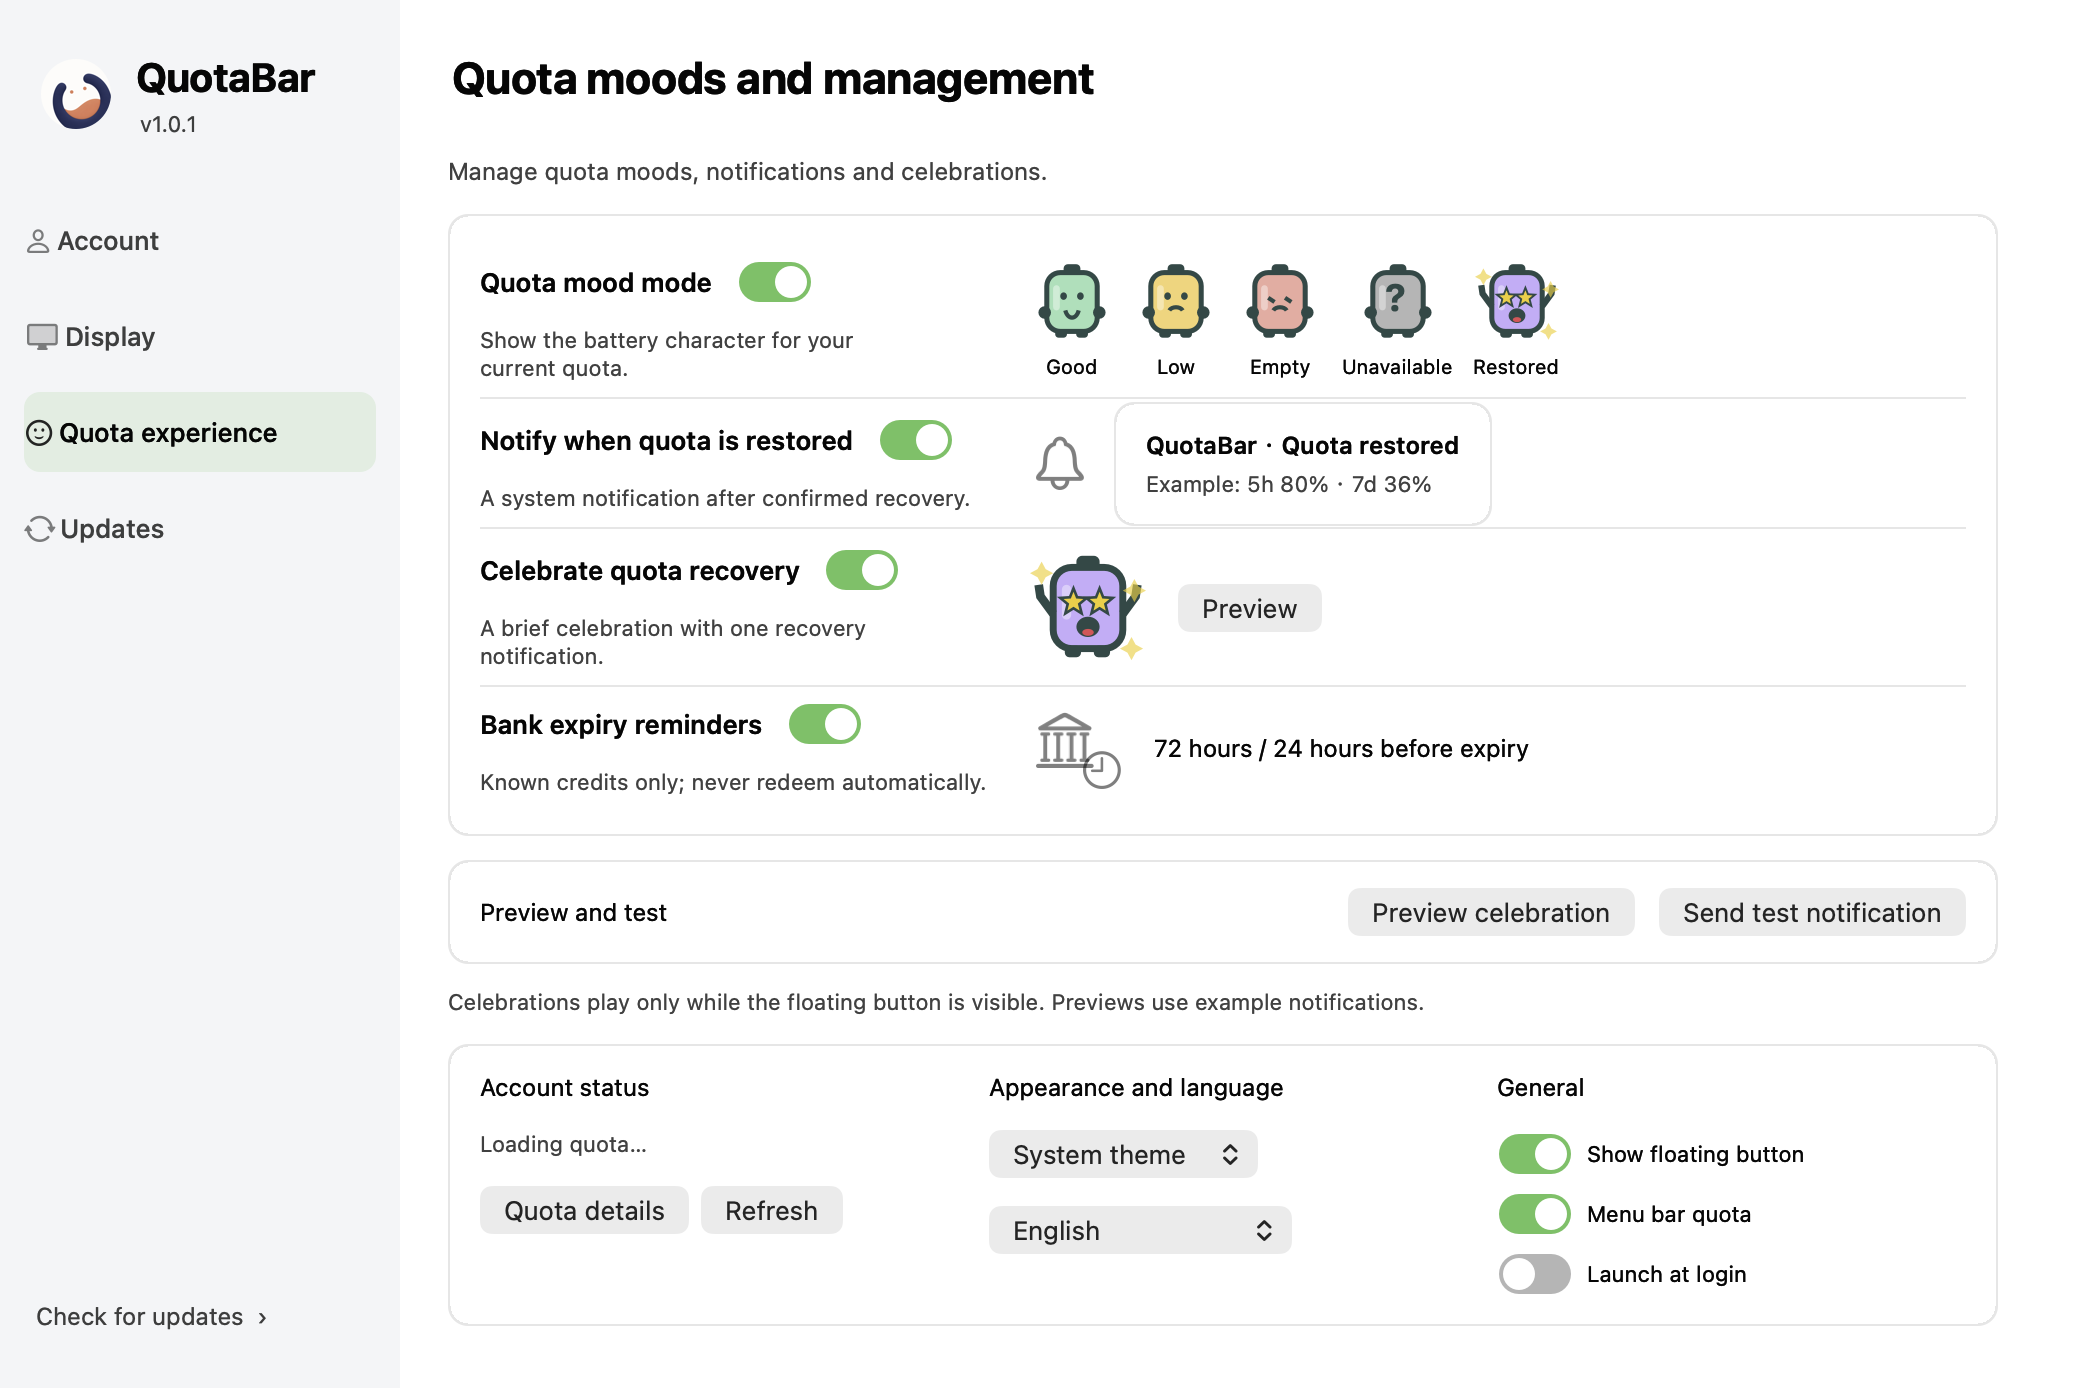
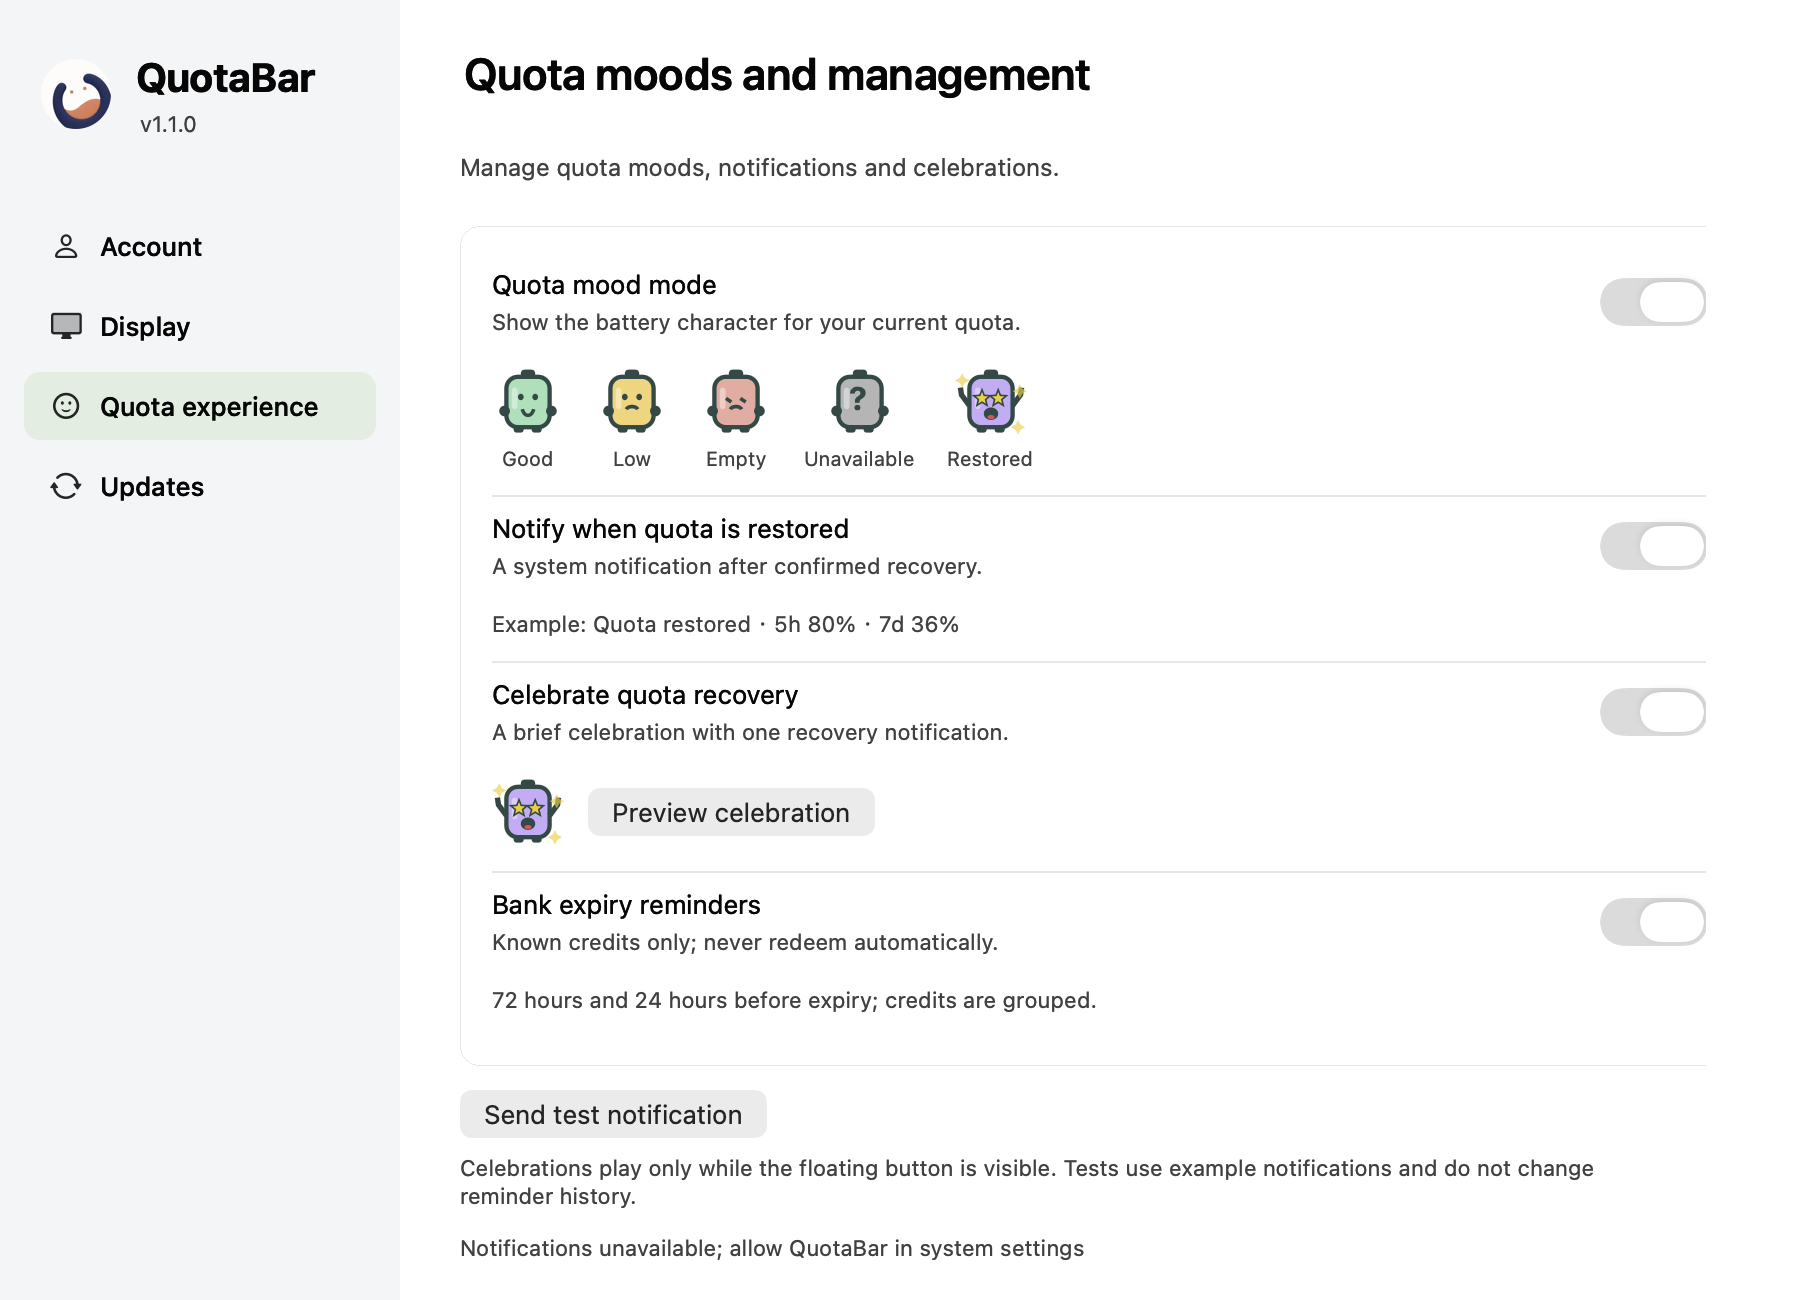
docs: record verified cross-platform v1.2.0 release (#50)

diff --git a/README.md b/README.md
@@ -10,7 +10,7 @@ An independent quota app for macOS and Windows: glance at the menu bar, tray or 
 
 **English** · [简体中文](README.zh-CN.md)
 
-[Download v1.1.0](https://github.com/JaceHwang/QuotaBar/releases/tag/v1.1.0) · [Installation](#installation) · [Documentation](docs/README.md)
+[Download v1.2.0](https://github.com/JaceHwang/QuotaBar/releases/tag/v1.2.0) · [Installation](#installation) · [Documentation](docs/README.md)
 
 </div>
 
@@ -18,7 +18,7 @@ An independent quota app for macOS and Windows: glance at the menu bar, tray or 
 
 QuotaBar bundles the official Codex 0.144.1 runtime and reads quota through an isolated account. Sign in once through the official browser flow; it keeps working when Codex desktop is closed. No separate CLI installation or old plugin is required.
 
-Floating, menu bar, detail and update screenshots below were captured on macOS v1.0.1 in English. The new sidebar settings image is a native rendering with example data from the tested development candidate. No image contains account credentials; these are macOS views, not Windows screenshots.
+Floating, menu bar, detail and update screenshots below were captured on macOS v1.0.1 in English. The sidebar settings image is a native rendering of the validated layout with example data from a pre-release test host; its displayed fixture version is not the current release version. No image contains account credentials; these are macOS views, not Windows screenshots.
 
 ### Quota, always within reach
 
@@ -54,16 +54,16 @@ Check for updates from the menu or settings, view release notes, postpone a remi
 
 <img src="docs/images/macos-updates-en.png" alt="Actual macOS update settings showing version 1.0.1 and update-check options" width="510" />
 
-The settings refinement in development uses grouped rows, trailing switches, state-aware account actions and a single celebration preview. Runtime reload lives under Troubleshooting. Public v1.1.0 packages retain their released interface.
+Settings now uses grouped rows, trailing native switches, state-aware account actions and a single celebration preview. Runtime reload lives under Troubleshooting. Language changes update status messages, and accessibility toggles save preferences.
 
 ## Installation
 
-Both platforms share **v1.1.0**. Download the package and checksum/supporting files from the [latest release](https://github.com/JaceHwang/QuotaBar/releases/latest), and verify the checksum before installing.
+Both platforms share **v1.2.0**. Download the package and checksum/supporting files from the [latest release](https://github.com/JaceHwang/QuotaBar/releases/latest), and verify the checksum before installing.
 
 | Platform | Download | Support and signing |
 | --- | --- | --- |
-| macOS Apple Silicon | [DMG](https://github.com/JaceHwang/QuotaBar/releases/download/v1.1.0/codex-quota-v1.1.0-macos-arm64.dmg) | macOS 14+ declared; device-tested on macOS 27.0. Locally signed, **not Developer ID notarized**. |
-| Windows x64 | [Installer ZIP](https://github.com/JaceHwang/QuotaBar/releases/download/v1.1.0/QuotaBar-1.1.0-windows-x64.zip) | Windows 11 x64. **Unsigned** package. |
+| macOS Apple Silicon | [DMG](https://github.com/JaceHwang/QuotaBar/releases/download/v1.2.0/codex-quota-v1.2.0-macos-arm64.dmg) | macOS 14+ declared; device-tested on macOS 27.0. Locally signed, **not Developer ID notarized**. |
+| Windows x64 | [Installer ZIP](https://github.com/JaceHwang/QuotaBar/releases/download/v1.2.0/QuotaBar-1.2.0-windows-x64.zip) | Windows 11 x64. **Unsigned** package. |
 
 ### macOS
 

diff --git a/docs/releases/settings-ui-v1.2.0.md b/docs/releases/settings-ui-v1.2.0.md
@@ -1,0 +1,26 @@
+# QuotaBar v1.2.0：设置与悬浮显示优化
+
+状态：2026-10-22双平台正式发布，公开下载和更新清单核验通过。[发布页](https://github.com/JaceHwang/QuotaBar/releases/tag/v1.2.0)。用户明确授权推送、合并和发布，并反馈实机测试通过。
+
+## 更新内容
+
+- 四个设置页统一分组、右侧原生开关、圆角按钮和间距，保持B方向侧栏与电池角色。
+- 账户操作按登录状态显示，运行时重载放入故障排查；显示页拆分外观与常驻行为。
+- 表情页移除重复设置与预览入口，更新页强化版本、进度和操作层次。
+- 修复悬浮额度重置时间末位数字被裁切、Windows辅助技术切换后偏好未保存，以及切换语言后状态提示未更新。
+- 保留独立账户、已保存偏好及提醒检测去重规则；四功能默认开启，既有关闭选择不变。Bank只读，无新增服务或API调用。
+
+macOS Apple Silicon与Windows x64继续内嵌官方Codex0.144.1。macOS本地签名、未Developer ID公证，Windows未签名。
+
+## 验证与发布证据
+
+- 功能PR [#46](https://github.com/JaceHwang/QuotaBar/pull/46)与安装指南PR [#48](https://github.com/JaceHwang/QuotaBar/pull/48)已合并；准确功能提交38ce4ec和指南168da51各8项原生CI/治理检查成功。
+- Release Please重新生成版本PR [#49](https://github.com/JaceHwang/QuotaBar/pull/49)，准确head87d01d9的[原生CI39751460486](https://github.com/JaceHwang/QuotaBar/actions/runs/39751460486)与[治理39751460343](https://github.com/JaceHwang/QuotaBar/actions/runs/39751460343)全部成功。旧PR47的GitHub自动合并标题超过72字符导致治理失败，已关闭并保留记录；没有绕过门禁或人工修改版本。
+- 准确tag：`v1.2.0` → `eae7c1cc69dbeaa37aee9e447059be56d639a1c3`；共享version.txt和manifest为1.2.0，由[Release Please39752079744](https://github.com/JaceHwang/QuotaBar/actions/runs/39752079744)生成。
+- [macOS发布39752176428](https://github.com/JaceHwang/QuotaBar/actions/runs/39752176428)与[Windows发布39752647890](https://github.com/JaceHwang/QuotaBar/actions/runs/39752647890)成功，10项资产全部公开，两端availability均available。
+- 公开DMG重新下载后通过SHA256、严格签名、版本、准确tag源码快照、内嵌运行时，以及隐藏构建目录后的隔离账户真实启动退出。Windows公开ZIP通过完整文件、PE x64、来源、摘要及原生CI启动退出/安装升级回退卸载证明核验；本Mac主机没有执行Windows程序。
+- [Pages39753040666](https://github.com/JaceHwang/QuotaBar/actions/runs/39753040666)成功；[公网更新清单](https://jacehwang.github.io/QuotaBar/updates.json)GET确认两端1.2.0、准确发布链接及非空摘要/更新说明。全部10文件大小和SHA256与GitHub资产元数据一致，v1.1.0全部资产ID/大小/摘要保持不变。
+- 复核命令：`python3 scripts/verify-macos-standalone-release.py v1.2.0 <assets>`、`python3 scripts/verify-windows-standalone-release.py v1.2.0 <assets>`，均在准确tag HEAD成功。日志与公开文件保存在本机`.dist/release-download/v1.2.0`及临时发布验证日志中，不提交安装包或私人账户数据。
+
+
+用户实机通过反馈单独记录；没有逐项提供的DPI、多屏、最低系统、读屏器和长期运行矩阵不视作全部通过。公开包在隔离目录验证，不改变用户本机账户或已安装候选。

diff --git a/docs/GOVERNANCE.md b/docs/GOVERNANCE.md
@@ -15,4 +15,4 @@ python3 scripts/verify-macos-standalone-release.py vX.Y.Z .dist/release/macos-ar
 
 The verifier checks the QuotaBar bundle, icon metadata, strict signatures, runtime/application hashes, version and tagged source snapshot. Upload all five assets without replacement, publish, then download and verify the public assets again from the same tag. Installers and guides must match their release. Do not commit build caches or installer binaries to source Git.
 
-Historical release tags/assets remain immutable. Update current docs and release catalog after publication, while preserving historical facts. Local tests, CI, device acceptance and release verification are separate states. Windows standalone is under development with candidate packaging and an added Windows CI job; native execution/device acceptance and a public Windows release remain pending. Developer ID notarization remains pending for macOS.
+Historical release tags/assets remain immutable. Update current docs and release catalog after publication, while preserving historical facts. Local tests, CI, device acceptance and release verification are separate states. Windows publication must be built and installation-tested on native Windows CI; record device acceptance separately. Public Windows packages are unsigned. Developer ID notarization remains pending for macOS.

diff --git a/docs/README.md b/docs/README.md
@@ -1,6 +1,6 @@
 # QuotaBar 文档索引
 
-当前产品为双平台独立额度应用：macOS（native/）、Windows（windows/）共用统一版本。v1.1.0已发布额度表情、恢复提醒、庆祝、Bank提醒及B侧栏设置；两端原生CI、用户实机反馈、公开资产与更新清单核验记录齐全。开发分支另有设置子页优化与浮窗文字裁切修复，尚未公开发布。文档更新日期：2026-10-22。
+当前产品为双平台独立额度应用：macOS（native/）、Windows（windows/）共用统一版本。v1.2.0已发布四页设置优化与浮窗文字裁切修复，保留额度表情、恢复提醒、庆祝及Bank提醒；两端原生CI、用户实机反馈、公开资产与更新清单核验记录齐全。文档更新日期：2026-10-22。
 
 | 文档 | 用途 |
 | --- | --- |
@@ -21,3 +21,5 @@
 | [v0.5.1 记录](releases/macos-standalone-v0.5.1.md) | 清理重构版的历史发布事实 |
 
 历史文档标明当时版本，不将新功能回写成旧版本已拥有。发布结果以 [GitHub Releases](https://github.com/JaceHwang/QuotaBar/releases/latest) 为准；待发布内容与已经发布的安装包分别记录。
+
+- [v1.2.0发布记录](releases/settings-ui-v1.2.0.md)：准确tag、原生构建、公开下载及更新清单核验。

diff --git a/docs/validation/2026-10-22-settings-ui-polish.md b/docs/validation/2026-10-22-settings-ui-polish.md
@@ -46,3 +46,7 @@
 - Windows结果是原生CI及渲染证据，不声称本次有新的用户Windows设备验收。
 - 未逐项执行VoiceOver/Narrator实际语音、完整键盘导航/所有OS全键盘访问设置、Windows全部DPI/多屏、最低系统、长时间运行，以及真实权限拒绝后打开系统设置的完整人工流程。辅助技术API触发与标签已自动化验证，不代替全部读屏器实机矩阵。
 - 自然额度恢复及真实Bank临期未重新遇到；本次没有改变事件检测，预览不作为真实事件证据。
+
+## 正式发布补充（2026-10-22）
+
+用户随后反馈实机通过并明确授权推送、合并、发布。PR46已合并，v1.2.0已由Release Please生成并完成两端发布；以上Draft及不公开发布的记录属于早期交付阶段，当前以[发布记录](../releases/settings-ui-v1.2.0.md)为准。用户反馈不替代未提供的逐项设备矩阵。
